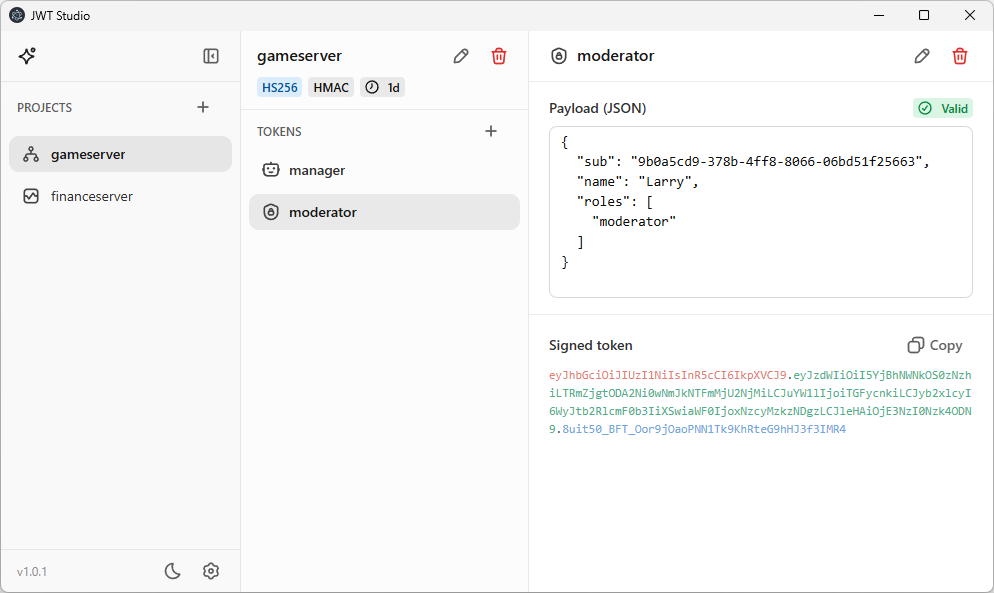
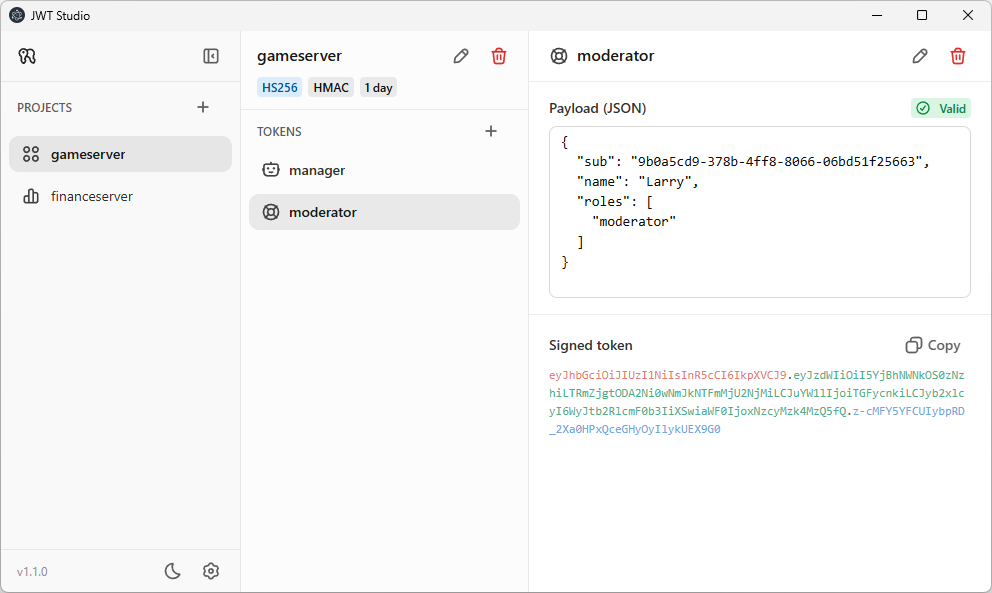
Update UI

diff --git a/src/components/Sidebar.tsx b/src/components/Sidebar.tsx
@@ -5,19 +5,20 @@ import {
   Moon,
   Sun,
   ApiKey,
+  ApiKeys,
   SettingsCog,
   SidebarCollapseLeft,
-  Sparkles,
 } from '@openai/apps-sdk-ui/components/Icon';
 import { getIcon } from './IconPicker';
 import type { ProjectStore } from '../store';
-import type { Project } from '../types';
+import type { Project, ThemeMode } from '../types';
+import type { AppSettingsStore } from '../appSettings';
 import { applyDocumentTheme, useDocumentTheme } from '@openai/apps-sdk-ui/theme';
-
-const THEME_KEY = 'jwt-studio-theme';
+import { THEME_KEY } from '../main';
 
 interface SidebarProps {
   store: ProjectStore;
+  appSettings: AppSettingsStore;
   onNewProject: () => void;
   onOpenSettings: () => void;
 }
@@ -52,17 +53,30 @@ function ProjectItem({
   );
 }
 
-export function Sidebar({ store, onNewProject, onOpenSettings }: SidebarProps) {
+export function Sidebar({ store, appSettings, onNewProject, onOpenSettings }: SidebarProps) {
   const theme = useDocumentTheme();
   const isDark = theme === 'dark';
+  const { settings, updateSettings } = appSettings;
+
+  function applyTheme(themeMode: ThemeMode) {
+    const prefersDark = window.matchMedia('(prefers-color-scheme: dark)').matches;
+    const newTheme = themeMode === 'system' ? (prefersDark ? 'dark' : 'light') : themeMode;
+    applyDocumentTheme(newTheme);
+    localStorage.setItem(THEME_KEY, themeMode);
+    if (window.electronAPI?.setTitleBarColor) {
+      window.electronAPI.setTitleBarColor(newTheme);
+    }
+  }
 
   function toggleTheme() {
-    const next = isDark ? 'light' : 'dark';
-    applyDocumentTheme(next);
-    localStorage.setItem(THEME_KEY, next);
-    if (window.electronAPI?.setTitleBarColor) {
-      window.electronAPI.setTitleBarColor(next);
-    }
+    // Cycle: system -> light -> dark -> system
+    const current = settings.themeMode;
+    let next: ThemeMode;
+    if (current === 'system') next = 'light';
+    else if (current === 'light') next = 'dark';
+    else next = 'system';
+    updateSettings({ themeMode: next });
+    applyTheme(next);
   }
 
   const [collapsed, setCollapsed] = useState(false);
@@ -70,7 +84,7 @@ export function Sidebar({ store, onNewProject, onOpenSettings }: SidebarProps) {
     <aside className={`flex flex-col h-full ${collapsed ? 'w-14' : 'w-60'} shrink-0 border-r border-[var(--alpha-08)] bg-[var(--gray-50)] transition-all duration-200 overflow-hidden`}>
       {/* Logo + Collapse Button */}
       <div className={`flex items-center border-b border-[var(--alpha-08)] px-3 py-3 ${collapsed ? 'justify-center' : 'justify-between px-4'}`}>
-        {!collapsed && <Sparkles className="w-5 h-5 text-[var(--gray-800)]" />}
+        {!collapsed && <ApiKeys className="w-5 h-5 text-[var(--gray-800)]" />}
         <Button
           color="secondary"
           variant="ghost"

diff --git a/src/components/Settings.tsx b/src/components/Settings.tsx
@@ -186,7 +186,7 @@ export function Settings({ projects, onImport, onClose, appSettings }: SettingsP
                         <p className="text-sm text-[var(--gray-800)]">Default algorithm</p>
                         <p className="text-xs text-[var(--gray-500)]">Used when creating a new project</p>
                       </div>
-                      <div className="w-40 shrink-0">
+                      <div className="w-32 shrink-0">
                         <Select
                           options={ALGORITHM_OPTIONS}
                           value={settings.defaultAlgorithm}
@@ -202,10 +202,10 @@ export function Settings({ projects, onImport, onClose, appSettings }: SettingsP
                         <p className="text-sm text-[var(--gray-800)]">Default token duration</p>
                         <p className="text-xs text-[var(--gray-500)]">Expiry applied to new project tokens</p>
                       </div>
-                      <div className="w-40 shrink-0">
+                      <div className="w-32 shrink-0">
                         <Select
                           options={DURATION_OPTIONS}
-                          value={settings.defaultDuration}
+                          value={settings.defaultDuration || '1 day'}
                           onChange={opt => updateSettings({ defaultDuration: opt.value })}
                           size="sm"
                           variant="outline"

diff --git a/src/App.tsx b/src/App.tsx
@@ -44,6 +44,7 @@ function App() {
     <div className="flex h-screen w-screen overflow-hidden bg-[var(--gray-0)] text-[var(--gray-900)]">
       <Sidebar
         store={store}
+        appSettings={appSettings}
         onNewProject={() => setShowNewProject(true)}
         onOpenSettings={() => setShowSettings(true)}
       />
